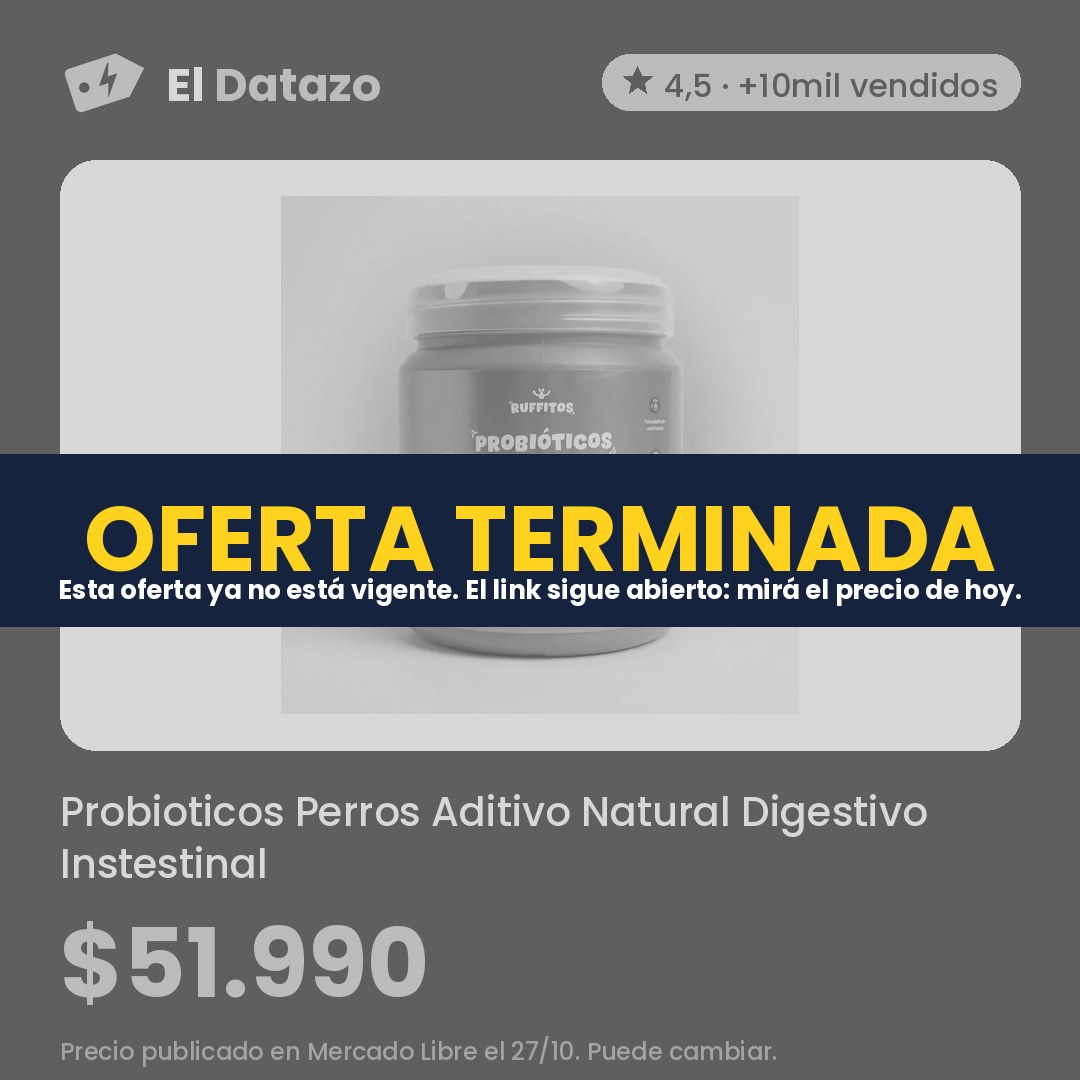
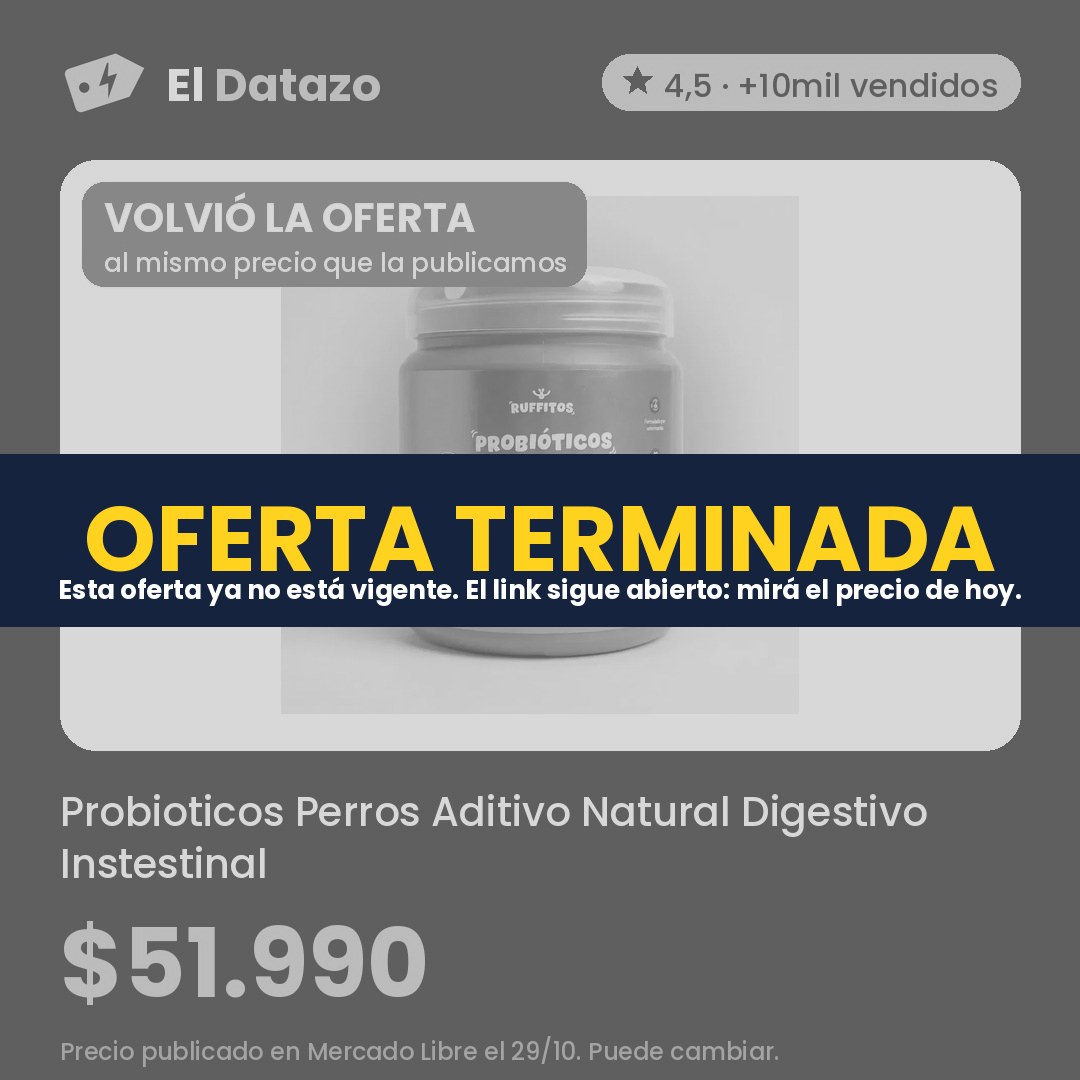
Ofertas 2026-10-29 23:33

Changed region(s): [[0.0611, 0.1528, 0.55, 0.275], [0.4889, 0.9472, 0.6111, 1.0], [0.6417, 0.9472, 0.7028, 0.9778]]

diff --git a/index.html b/index.html
@@ -293,7 +293,7 @@ padding:3px 9px;border-radius:999px}
       <p class="hero-precio">$50.749</p>
       <p class="hero-antes"><s>$108.499</s> <span class="off">53% OFF</span></p>
       <p class="bajo pastilla"><b>⬇ Volvió</b> · Había terminado y volvió al mismo precio</p>
-      <p class="nota">Precio del 28/10 en Mercado Libre, revisado hoy a las 16:31. Puede cambiar.</p>
+      <p class="nota">Precio del 28/10 en Mercado Libre, revisado hoy a las 20:33. Puede cambiar.</p>
       <a class="boton oscuro" href="https://meli.la/1HyqnAD" rel="sponsored noopener" target="_blank"
          data-oferta="MLA22130330">Ver oferta en Mercado Libre</a>
       <a class="compartir" href="https://wa.me/?text=Mir%C3%A1%20este%20datazo%3A%20Buclera%20de%20Pelo%20Gadnic%20B3000%20Rizador%203%20Tubos%2025%20mm%20150W%20180%20210%20C%20a%20%2450.749%20https%3A//eldatazo.com.ar/%23MLA22130330" target="_blank" rel="noopener" data-estilo="texto"><svg viewBox="0 0 24 24" width="16" height="16" aria-hidden="true"><path d="M4 20l1.3-4A8 8 0 1 1 8 18.7L4 20z" fill="none" stroke="currentColor" stroke-width="2" stroke-linejoin="round"/></svg> Compartir por WhatsApp</a>
@@ -309,8 +309,8 @@ padding:3px 9px;border-radius:999px}
           <span><b>Bomba Periferica Elevadora Agua Vasser 1/2 Hp 20mts caudal 30 l/m</b><span class="ahora">$42.282</span> <span class="bajo">⬇ Volvió</span></span></a></li>
         <li><a href="#MLA28052339"><img src="img/MLA28052339.jpg" alt="" loading="lazy">
           <span><b>Pañales Pampers deluxe protection XXG x 54 unidades</b><span class="ahora">$42.008</span> <span class="bajo">⬇ Volvió</span></span></a></li>
-        <li><a href="#MLA59797283"><img src="img/MLA59797283.jpg" alt="" loading="lazy">
-          <span><b>Probioticos Perros Aditivo Natural Digestivo Instestinal Alergia Ruffitos</b><span class="ahora">$51.990</span> <span class="bajo">⬇ Volvió</span></span></a></li>
+        <li><a href="#MLA32162099"><img src="img/MLA32162099.jpg" alt="" loading="lazy">
+          <span><b>Reloj Casio Vintage A158WA-1DF digital plateado con cronógrafo y calendario</b><span class="ahora">$51.000</span> <span class="bajo">⬇ Volvió</span></span></a></li>
         <li><a href="#MLA22130330"><img src="img/MLA22130330.jpg" alt="" loading="lazy">
           <span><b>Buclera de Pelo Gadnic B3000 Rizador 3 Tubos 25 mm 150W 180 210 C</b><span class="ahora">$50.749</span> <span class="bajo">⬇ Volvió</span></span></a></li>
         <li><a href="#MLA25363194"><img src="img/MLA25363194.jpg" alt="" loading="lazy">
@@ -352,7 +352,7 @@ padding:3px 9px;border-radius:999px}
             <option value="precio">Más baratas</option>
           </select></label>
       </div>
-      <div class="chips" role="group" aria-label="Rubro"><button type="button" data-filtro="" aria-pressed="true">Todo</button><button type="button" data-filtro="MLA1500" aria-pressed="false">Construcción <span>5</span></button><button type="button" data-filtro="MLA1071" aria-pressed="false">Mascotas <span>3</span></button><button type="button" data-filtro="MLA5725" aria-pressed="false">Accesorios para Vehículos <span>2</span></button><button type="button" data-filtro="MLA1499" aria-pressed="false">Industrias y Oficinas <span>2</span></button><button type="button" data-filtro="MLA1132" aria-pressed="false">Juegos y Juguetes <span>2</span></button><button type="button" data-filtro="MLA1512" aria-pressed="false">Agro <span>1</span></button><button type="button" data-filtro="MLA1384" aria-pressed="false">Bebés <span>1</span></button><button type="button" data-filtro="MLA1276" aria-pressed="false">Deportes y Fitness <span>1</span></button><button type="button" data-filtro="MLA407134" aria-pressed="false">Herramientas <span>1</span></button><button type="button" data-filtro="MLA409431" aria-pressed="false">Salud y Equipamiento Médico <span>1</span></button></div>
+      <div class="chips" role="group" aria-label="Rubro"><button type="button" data-filtro="" aria-pressed="true">Todo</button><button type="button" data-filtro="MLA1500" aria-pressed="false">Construcción <span>5</span></button><button type="button" data-filtro="MLA5725" aria-pressed="false">Accesorios para Vehículos <span>2</span></button><button type="button" data-filtro="MLA1499" aria-pressed="false">Industrias y Oficinas <span>2</span></button><button type="button" data-filtro="MLA1132" aria-pressed="false">Juegos y Juguetes <span>2</span></button><button type="button" data-filtro="MLA1071" aria-pressed="false">Mascotas <span>2</span></button><button type="button" data-filtro="MLA1512" aria-pressed="false">Agro <span>1</span></button><button type="button" data-filtro="MLA1384" aria-pressed="false">Bebés <span>1</span></button><button type="button" data-filtro="MLA1276" aria-pressed="false">Deportes y Fitness <span>1</span></button><button type="button" data-filtro="MLA407134" aria-pressed="false">Herramientas <span>1</span></button><button type="button" data-filtro="MLA3937" aria-pressed="false">Joyas y Relojes <span>1</span></button><button type="button" data-filtro="MLA409431" aria-pressed="false">Salud y Equipamiento Médico <span>1</span></button></div>
       <p class="contador" aria-live="polite"><span data-cuenta>19</span> ofertas</p>
     </div>
     <div class="grilla activas">
@@ -365,7 +365,7 @@ padding:3px 9px;border-radius:999px}
           <h3>Bomba Periferica Elevadora Agua Vasser 1/2 Hp 20mts caudal 30 l/m</h3>
           <p class="precios "><span class="precio">$42.282</span><s class="antes">$75.590</s><span class="off">44% OFF</span></p>
           <p class="bajo">Había terminado y volvió al mismo precio</p>
-          <p class="nota">Precio de hoy a las 16:31 en Mercado Libre. Puede cambiar.</p>
+          <p class="nota">Precio de hoy a las 20:33 en Mercado Libre. Puede cambiar.</p>
           <div class="acciones">
             <a class="boton" href="https://meli.la/2nztThe" rel="sponsored noopener" target="_blank"
                data-oferta="MLA19576694">Ver oferta</a>
@@ -383,7 +383,7 @@ padding:3px 9px;border-radius:999px}
           <h3>Pañales Pampers deluxe protection XXG x 54 unidades</h3>
           <p class="precios "><span class="precio">$42.008</span><s class="antes">$50.000</s><span class="off">16% OFF</span></p>
           <p class="bajo">Había terminado y volvió al mismo precio</p>
-          <p class="nota">Precio de hoy a las 16:31 en Mercado Libre. Puede cambiar.</p>
+          <p class="nota">Precio de hoy a las 20:33 en Mercado Libre. Puede cambiar.</p>
           <div class="acciones">
             <a class="boton" href="https://meli.la/2kAwAe6" rel="sponsored noopener" target="_blank"
                data-oferta="MLA28052339">Ver oferta</a>
@@ -392,20 +392,20 @@ padding:3px 9px;border-radius:999px}
           </div>
         </div>
       </article>
-      <article class="tarjeta destacada" id="MLA59797283" data-rubro="MLA1071" data-off="0" data-pub="2026-10-29" data-quedan="7" data-precio="51990" data-bajo="1" data-texto="probioticos perros aditivo natural digestivo instestinal alergia ruffitos">
+      <article class="tarjeta destacada" id="MLA32162099" data-rubro="MLA3937" data-off="0" data-pub="2026-10-29" data-quedan="7" data-precio="51000" data-bajo="1" data-texto="reloj casio vintage a158wa-1df digital plateado con cronógrafo y calendario">
         <div class="tarjeta-foto">
-          <img src="img/MLA59797283.jpg" alt="Probioticos Perros Aditivo Natural Digestivo Instestinal Alergia Ruffitos" loading="lazy" width="1080" height="1080">
+          <img src="img/MLA32162099.jpg" alt="Reloj Casio Vintage A158WA-1DF digital plateado con cronógrafo y calendario" loading="lazy" width="1080" height="1080">
         </div>
         <div class="cuerpo">
-          <div class="fila"><span class="sello baja">⬇ Volvió</span><span class="sello">Quedan 7 días</span><span class="rubro">Mascotas</span></div>
-          <h3>Probioticos Perros Aditivo Natural Digestivo Instestinal Alergia Ruffitos</h3>
-          <p class="precios "><span class="precio">$51.990</span></p>
+          <div class="fila"><span class="sello baja">⬇ Volvió</span><span class="sello">Quedan 7 días</span><span class="rubro">Joyas y Relojes</span></div>
+          <h3>Reloj Casio Vintage A158WA-1DF digital plateado con cronógrafo y calendario</h3>
+          <p class="precios "><span class="precio">$51.000</span></p>
           <p class="bajo">Había terminado y volvió al mismo precio</p>
-          <p class="nota">Precio de hoy a las 16:31 en Mercado Libre. Puede cambiar.</p>
+          <p class="nota">Precio de hoy a las 20:33 en Mercado Libre. Puede cambiar.</p>
           <div class="acciones">
-            <a class="boton" href="https://meli.la/2MYNaoX" rel="sponsored noopener" target="_blank"
-               data-oferta="MLA59797283">Ver oferta</a>
-            <a class="compartir" href="https://wa.me/?text=Mir%C3%A1%20este%20datazo%3A%20Probioticos%20Perros%20Aditivo%20Natural%20Digestivo%20Instestinal%20Alergia%20Ruffitos%20a%20%2451.990%20https%3A//eldatazo.com.ar/%23MLA59797283" target="_blank" rel="noopener"
+            <a class="boton" href="https://meli.la/1Z3v7SJ" rel="sponsored noopener" target="_blank"
+               data-oferta="MLA32162099">Ver oferta</a>
+            <a class="compartir" href="https://wa.me/?text=Mir%C3%A1%20este%20datazo%3A%20Reloj%20Casio%20Vintage%20A158WA-1DF%20digital%20plateado%20con%20cron%C3%B3grafo%20y%20calendario%20a%20%2451.000%20https%3A//eldatazo.com.ar/%23MLA32162099" target="_blank" rel="noopener"
                aria-label="Compartir por WhatsApp" title="Compartir por WhatsApp"><svg viewBox="0 0 24 24" width="16" height="16" aria-hidden="true"><path d="M4 20l1.3-4A8 8 0 1 1 8 18.7L4 20z" fill="none" stroke="currentColor" stroke-width="2" stroke-linejoin="round"/></svg></a>
           </div>
         </div>
@@ -419,7 +419,7 @@ padding:3px 9px;border-radius:999px}
           <h3>Old Prince Premium gato adulto 7.5 kg</h3>
           <p class="precios "><span class="precio">$40.100</span></p>
           <p class="bajo">Había terminado y volvió al mismo precio</p>
-          <p class="nota">Precio del 27/10 en Mercado Libre, revisado hoy a las 16:31. Puede cambiar.</p>
+          <p class="nota">Precio del 27/10 en Mercado Libre, revisado hoy a las 20:33. Puede cambiar.</p>
           <div class="acciones">
             <a class="boton" href="https://meli.la/2zmmmFA" rel="sponsored noopener" target="_blank"
                data-oferta="MLA25363194">Ver oferta</a>
@@ -437,7 +437,7 @@ padding:3px 9px;border-radius:999px}
           <h3>Colchón Inflable Doble Klimber + Inflador + 2 Almohadas</h3>
           <p class="precios "><span class="precio">$45.777</span><s class="antes">$69.499</s><span class="off">34% OFF</span></p>
           
-          <p class="nota">Precio del 26/10 en Mercado Libre, revisado hoy a las 16:31. Puede cambiar.</p>
+          <p class="nota">Precio del 26/10 en Mercado Libre, revisado hoy a las 20:33. Puede cambiar.</p>
           <div class="acciones">
             <a class="boton" href="https://meli.la/19eMhmv" rel="sponsored noopener" target="_blank"
                data-oferta="MLA22764635">Ver oferta</a>
@@ -455,7 +455,7 @@ padding:3px 9px;border-radius:999px}
           <h3>Rotuladora Portátil Niimbot Etiquetadora Manual Impresora Color Blanco D110</h3>
           <p class="precios "><span class="precio">$41.040</span><s class="antes">$58.900</s><span class="off">30% OFF</span></p>
           
-          <p class="nota">Precio del 26/10 en Mercado Libre, revisado hoy a las 16:31. Puede cambiar.</p>
+          <p class="nota">Precio del 26/10 en Mercado Libre, revisado hoy a las 20:33. Puede cambiar.</p>
           <div class="acciones">
             <a class="boton" href="https://meli.la/1czSFp6" rel="sponsored noopener" target="_blank"
                data-oferta="MLA45260672">Ver oferta</a>
@@ -473,7 +473,7 @@ padding:3px 9px;border-radius:999px}
           <h3>Bomba Pluvius Presurizadora 100 W Automática 2 Baños</h3>
           <p class="precios "><span class="precio">$62.006</span><s class="antes">$81.899</s><span class="off">24% OFF</span></p>
           <p class="bajo">Antes $66.659 el 24/10 · 7% menos</p>
-          <p class="nota">Precio del 27/10 en Mercado Libre, revisado hoy a las 16:31. Puede cambiar.</p>
+          <p class="nota">Precio del 27/10 en Mercado Libre, revisado hoy a las 20:33. Puede cambiar.</p>
           <div class="acciones">
             <a class="boton" href="https://meli.la/2a5DkY2" rel="sponsored noopener" target="_blank"
                data-oferta="MLA19974075">Ver oferta</a>
@@ -491,7 +491,7 @@ padding:3px 9px;border-radius:999px}
           <h3>Equipo Pistola Pintar Eléctrica Latex 450w TOTAL Acabado Profesional sin Esfuerzo</h3>
           <p class="precios "><span class="precio">$56.340</span><s class="antes">$105.990</s><span class="off">47% OFF</span></p>
           
-          <p class="nota">Precio del 24/10 en Mercado Libre, revisado hoy a las 16:31. Puede cambiar.</p>
+          <p class="nota">Precio del 24/10 en Mercado Libre, revisado hoy a las 20:33. Puede cambiar.</p>
           <div class="acciones">
             <a class="boton" href="https://meli.la/2TeggF7" rel="sponsored noopener" target="_blank"
                data-oferta="MLA22620660">Ver oferta</a>
@@ -509,7 +509,7 @@ padding:3px 9px;border-radius:999px}
           <h3>Pintura Latex Ingenia X 20 L Interior Exterior Cubritiva - Blanco</h3>
           <p class="precios "><span class="precio">$32.999</span><s class="antes">$69.999</s><span class="off">53% OFF</span></p>
           
-          <p class="nota">Precio del 24/10 en Mercado Libre, revisado hoy a las 16:31. Puede cambiar.</p>
+          <p class="nota">Precio del 24/10 en Mercado Libre, revisado hoy a las 20:33. Puede cambiar.</p>
           <div class="acciones">
             <a class="boton" href="https://meli.la/2Gbd1ds" rel="sponsored noopener" target="_blank"
                data-oferta="MLA23521180">Ver oferta</a>
@@ -527,7 +527,7 @@ padding:3px 9px;border-radius:999px}
           <h3>Masajeador Cervical Eléctrico Portatil Inalambrico Batería Recargable Usb Femmto Relajación Cuello Espalda Lumbar</h3>
           <p class="precios "><span class="precio">$70.699</span><s class="antes">$100.000</s><span class="off">29% OFF</span></p>
           
-          <p class="nota">Precio del 22/10 en Mercado Libre, revisado hoy a las 16:31. Puede cambiar.</p>
+          <p class="nota">Precio del 22/10 en Mercado Libre, revisado hoy a las 20:33. Puede cambiar.</p>
           <div class="acciones">
             <a class="boton" href="https://meli.la/2DfwhAa" rel="sponsored noopener" target="_blank"
                data-oferta="MLA24127896">Ver oferta</a>
@@ -545,7 +545,7 @@ padding:3px 9px;border-radius:999px}
           <h3>Taladro Atornillador Inalámbrico Branx Bateria 20v Litio Color Accesorios Maletin HyperBolt20</h3>
           <p class="precios "><span class="precio">$58.999</span><s class="antes">$120.000</s><span class="off">51% OFF</span></p>
           
-          <p class="nota">Precio del 24/10 en Mercado Libre, revisado hoy a las 16:31. Puede cambiar.</p>
+          <p class="nota">Precio del 24/10 en Mercado Libre, revisado hoy a las 20:33. Puede cambiar.</p>
           <div class="acciones">
             <a class="boton" href="https://meli.la/2xk9W87" rel="sponsored noopener" target="_blank"
                data-oferta="MLA24983473">Ver oferta</a>
@@ -563,7 +563,7 @@ padding:3px 9px;border-radius:999px}
           <h3>Bomba Presurizadora Elevadora 2 Baños Presion Kommberg 120w KB-EP120</h3>
           <p class="precios "><span class="precio">$60.021</span><s class="antes">$79.890</s><span class="off">25% OFF</span></p>
           
-          <p class="nota">Precio del 24/10 en Mercado Libre, revisado hoy a las 16:31. Puede cambiar.</p>
+          <p class="nota">Precio del 24/10 en Mercado Libre, revisado hoy a las 20:33. Puede cambiar.</p>
           <div class="acciones">
             <a class="boton" href="https://meli.la/2eMw9XD" rel="sponsored noopener" target="_blank"
                data-oferta="MLA28254149">Ver oferta</a>
@@ -581,7 +581,7 @@ padding:3px 9px;border-radius:999px}
           <h3>Máquina De Cortar Pelo Para Perros Gadnic CP170 Silenciosa 2000 mAh 4 Peines Acero Inoxidable Autonomía 3,5Hr Carga Rápida</h3>
           <p class="precios "><span class="precio">$68.999</span><s class="antes">$118.749</s><span class="off">42% OFF</span></p>
           
-          <p class="nota">Precio del 24/10 en Mercado Libre, revisado hoy a las 16:31. Puede cambiar.</p>
+          <p class="nota">Precio del 24/10 en Mercado Libre, revisado hoy a las 20:33. Puede cambiar.</p>
           <div class="acciones">
             <a class="boton" href="https://meli.la/1eArodH" rel="sponsored noopener" target="_blank"
                data-oferta="MLA28329206">Ver oferta</a>
@@ -599,7 +599,7 @@ padding:3px 9px;border-radius:999px}
           <h3>Compresor De Aire Portátil Gadnic Inflador Neumáticos 50W Presión 150 PSI Caudal 17 L/min Pantalla Dual LCD Corte Automático Linterna LED Accesorios Para Auto Moto Bicicleta Pelotas</h3>
           <p class="precios "><span class="precio">$57.449</span><s class="antes">$105.599</s><span class="off">46% OFF</span></p>
           
-          <p class="nota">Precio del 24/10 en Mercado Libre, revisado hoy a las 16:31. Puede cambiar.</p>
+          <p class="nota">Precio del 24/10 en Mercado Libre, revisado hoy a las 20:33. Puede cambiar.</p>
           <div class="acciones">
             <a class="boton" href="https://meli.la/2ck1cFk" rel="sponsored noopener" target="_blank"
                data-oferta="MLA43472281">Ver oferta</a>
@@ -617,7 +617,7 @@ padding:3px 9px;border-radius:999px}
           <h3>Plastificadora Laminadora A4 Profesional Frio Calor 230 Mm</h3>
           <p class="precios "><span class="precio">$51.465</span><s class="antes">$79.999</s><span class="off">36% OFF</span></p>
           
-          <p class="nota">Precio del 24/10 en Mercado Libre, revisado hoy a las 16:31. Puede cambiar.</p>
+          <p class="nota">Precio del 24/10 en Mercado Libre, revisado hoy a las 20:33. Puede cambiar.</p>
           <div class="acciones">
             <a class="boton" href="https://meli.la/14bVQFh" rel="sponsored noopener" target="_blank"
                data-oferta="MLA43829530">Ver oferta</a>
@@ -635,7 +635,7 @@ padding:3px 9px;border-radius:999px}
           <h3>Cable Tipo Taller 2x2.5 Mm 50mts Cubierta Negro</h3>
           <p class="precios "><span class="precio">$47.219</span></p>
           
-          <p class="nota">Precio del 28/10 en Mercado Libre, revisado hoy a las 16:31. Puede cambiar.</p>
+          <p class="nota">Precio del 28/10 en Mercado Libre, revisado hoy a las 20:33. Puede cambiar.</p>
           <div class="acciones">
             <a class="boton" href="https://meli.la/1aC3rjr" rel="sponsored noopener" target="_blank"
                data-oferta="MLA50107405">Ver oferta</a>
@@ -653,7 +653,7 @@ padding:3px 9px;border-radius:999px}
           <h3>Bloques Magnéticos Para Armar 100 Piezas Construcción Tiles 100</h3>
           <p class="precios "><span class="precio">$63.832</span><s class="antes">$83.990</s><span class="off">24% OFF</span></p>
           
-          <p class="nota">Precio del 24/10 en Mercado Libre, revisado hoy a las 16:31. Puede cambiar.</p>
+          <p class="nota">Precio del 24/10 en Mercado Libre, revisado hoy a las 20:33. Puede cambiar.</p>
           <div class="acciones">
             <a class="boton" href="https://meli.la/2Hc8YtJ" rel="sponsored noopener" target="_blank"
                data-oferta="MLA63335049">Ver oferta</a>
@@ -671,7 +671,7 @@ padding:3px 9px;border-radius:999px}
           <h3>Juego Cubiertas Moto 110 2.50-17+2.75-14 + Camaras</h3>
           <p class="precios "><span class="precio">$60.776</span><s class="antes">$82.983</s><span class="off">27% OFF</span></p>
           
-          <p class="nota">Precio del 24/10 en Mercado Libre, revisado hoy a las 16:31. Puede cambiar.</p>
+          <p class="nota">Precio del 24/10 en Mercado Libre, revisado hoy a las 20:33. Puede cambiar.</p>
           <div class="acciones">
             <a class="boton" href="https://meli.la/1rzdJj3" rel="sponsored noopener" target="_blank"
                data-oferta="MLA63532450">Ver oferta</a>
@@ -689,7 +689,7 @@ padding:3px 9px;border-radius:999px}
           <h3>Figuritas Panini X 25 Sobres World Cup 2026 Mundial 2026</h3>
           <p class="precios "><span class="precio">$48.980</span></p>
           
-          <p class="nota">Precio del 28/10 en Mercado Libre, revisado hoy a las 16:31. Puede cambiar.</p>
+          <p class="nota">Precio del 28/10 en Mercado Libre, revisado hoy a las 20:33. Puede cambiar.</p>
           <div class="acciones">
             <a class="boton" href="https://meli.la/1qNpAcw" rel="sponsored noopener" target="_blank"
                data-oferta="MLA69121337">Ver oferta</a>
@@ -1157,6 +1157,17 @@ padding:3px 9px;border-radius:999px}
              data-oferta="MLA43803009">Ver precio de hoy</a>
         </div>
       </article>
+      <article class="tarjeta terminada" id="MLA59797283">
+        <div class="tarjeta-foto">
+          <img src="img/MLA59797283_terminada.jpg" alt="Probioticos Perros Aditivo Natural Digestivo Instestinal Alergia Ruffitos" loading="lazy" width="1080" height="1080">
+        </div>
+        <div class="cuerpo">
+          <h3>Probioticos Perros Aditivo Natural Digestivo Instestinal Alergia Ruffitos</h3>
+          <p class="nota">Terminó el 29/10. El link sigue abierto: mirá el precio de hoy.</p>
+          <a class="boton suave" href="https://meli.la/2MYNaoX" rel="sponsored noopener" target="_blank"
+             data-oferta="MLA59797283">Ver precio de hoy</a>
+        </div>
+      </article>
       <article class="tarjeta terminada" id="MLA7890744">
         <div class="tarjeta-foto">
           <img src="img/MLA7890744_terminada.jpg" alt="Secador De Pelo Ultracomb Tourmaline Ion Pro Sc-4606 Negro 3 Temperaturas cool shot 1 Boquilla Negro / Rojo" loading="lazy" width="1080" height="1080">
@@ -1256,17 +1267,6 @@ padding:3px 9px;border-radius:999px}
              data-oferta="MLA30422545">Ver precio de hoy</a>
         </div>
       </article>
-      <article class="tarjeta terminada" id="MLA32162099">
-        <div class="tarjeta-foto">
-          <img src="img/MLA32162099_terminada.jpg" alt="Reloj Casio Vintage A158WA-1DF digital plateado con cronógrafo y calendario" loading="lazy" width="1080" height="1080">
-        </div>
-        <div class="cuerpo">
-          <h3>Reloj Casio Vintage A158WA-1DF digital plateado con cronógrafo y calendario</h3>
-          <p class="nota">Terminó el 27/10. El link sigue abierto: mirá el precio de hoy.</p>
-          <a class="boton suave" href="https://meli.la/1Z3v7SJ" rel="sponsored noopener" target="_blank"
-             data-oferta="MLA32162099">Ver precio de hoy</a>
-        </div>
-      </article>
       <article class="tarjeta terminada" id="MLA47200126">
         <div class="tarjeta-foto">
           <img src="img/MLA47200126_terminada.jpg" alt="Extractor De Leche Eléctrico Mawe By Gadnic RH-289 150 ml 9 Niveles Pantalla LED Batería Recargable 1200mAh" loading="lazy" width="1080" height="1080">
@@ -1330,7 +1330,7 @@ padding:3px 9px;border-radius:999px}
       <nav class="redes" aria-label="Redes de El Datazo"><a class="red" href="https://www.instagram.com/eldatazo.arg/" target="_blank" rel="noopener"><svg viewBox="0 0 24 24" width="18" height="18" aria-hidden="true"><rect x="3" y="3" width="18" height="18" rx="5" fill="none" stroke="currentColor" stroke-width="2"/><circle cx="12" cy="12" r="4" fill="none" stroke="currentColor" stroke-width="2"/><circle cx="17.5" cy="6.5" r="1.3" fill="currentColor"/></svg> Instagram</a><a class="red" href="https://www.facebook.com/profile.php?id=61595441168911" target="_blank" rel="noopener"><svg viewBox="0 0 24 24" width="18" height="18" aria-hidden="true"><path d="M14 8h3V4h-3a4 4 0 0 0-4 4v2H7v4h3v8h4v-8h3l1-4h-4V8z" fill="currentColor"/></svg> Facebook</a><a class="red" href="https://t.me/eldatazo_ofertas" target="_blank" rel="noopener"><svg viewBox="0 0 24 24" width="18" height="18" aria-hidden="true"><path d="M21 4 3 11l5 2 2 6 3-4 5 4 3-15zM9 13l9-6-7 8" fill="none" stroke="currentColor" stroke-width="1.8" stroke-linejoin="round"/></svg> Telegram</a></nav>
       <p>Los links son de afiliado de Mercado Libre: si comprás, El Datazo puede recibir una comisión, sin que cambie
       tu precio. Los precios son los publicados en Mercado Libre el día indicado y pueden cambiar.</p>
-      <p>Actualizado el 29/10/2026 18:49 (hora argentina) · <a href="privacidad/">Privacidad</a></p>
+      <p>Actualizado el 29/10/2026 20:33 (hora argentina) · <a href="privacidad/">Privacidad</a></p>
     </div>
   </footer>
   
